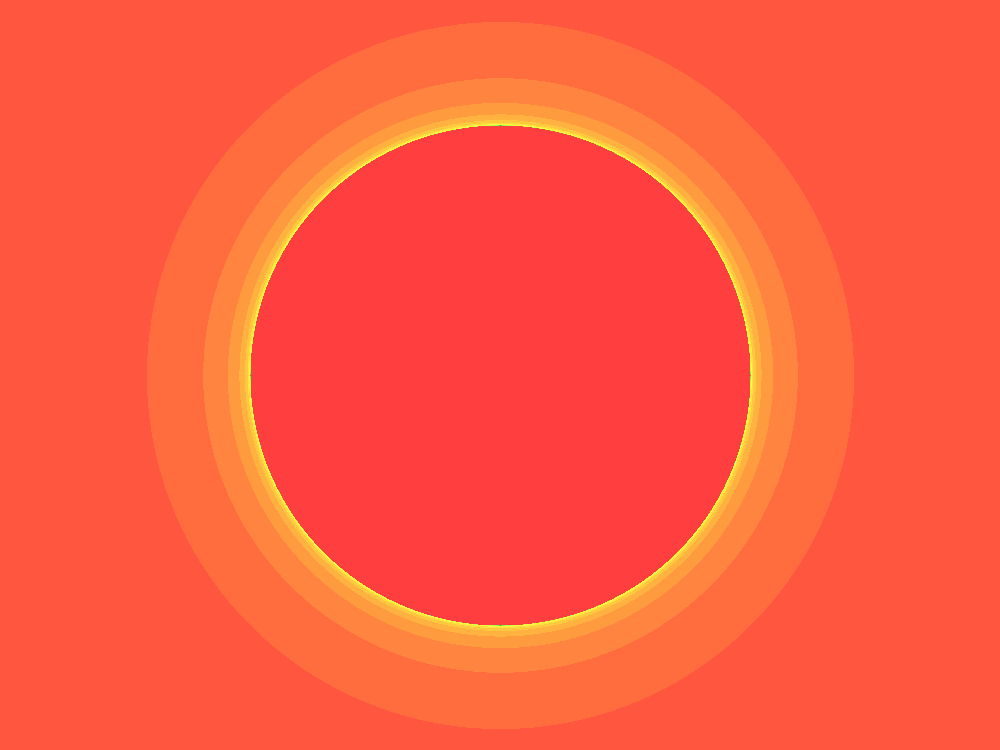
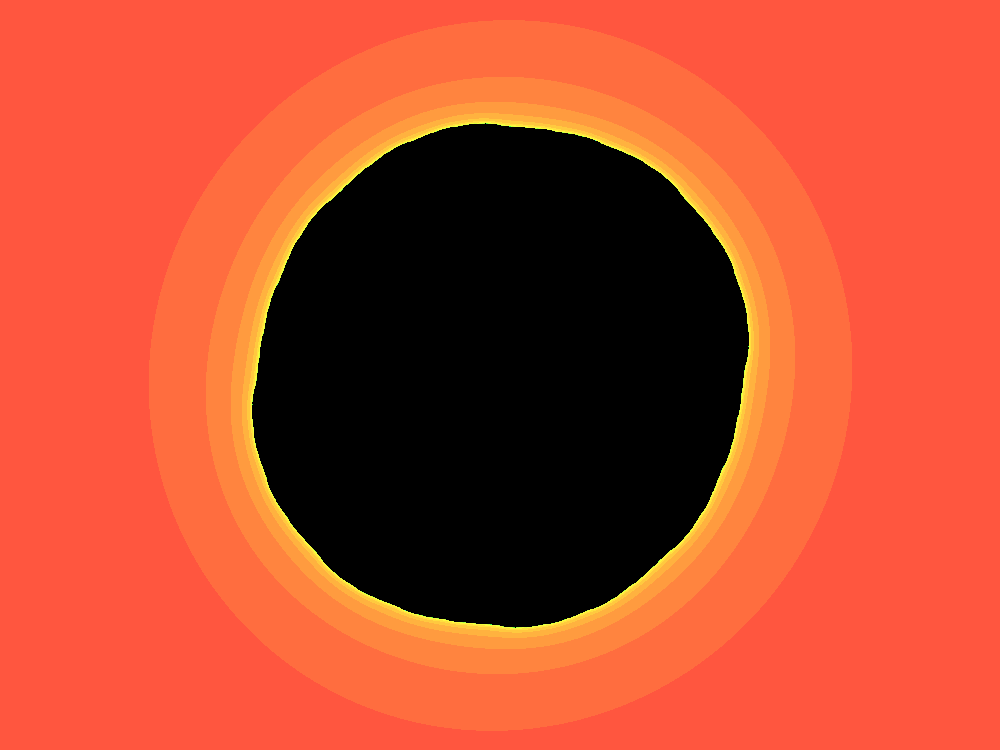
red to black

Changed region(s): [[0.248, 0.1533, 0.775, 0.8587]]

diff --git a/fractals.js b/fractals.js
@@ -54,7 +54,9 @@ var drawJulia = function(iter, mWidth, mHeight, c) {
     for (var w = 0.0; w < 4.0 * mandelb.width; w += 4.0) {
       var a = new ComplexNumber((w / 4.0) / (mandelb.width / 4.0) - 2.0, 1.5 - ((h / 4.0) / (mandelb.height / 3.0)));
       //mandelb.pixels[h*mandelb.width+w]=color(mandelbrot(zero, a, 0, iter), iter*0.75, iter);
-      var color1 = color(map(mandelbrot(a, c, 0, iter), 0, iter, 0, 255), 191, 255);
+      var color1;
+      if (mandelbrot(a, c, 0, iter)==iter) color1=color(0);
+      else color1 = color(map(mandelbrot(a, c, 0, iter), 0, iter, 0, 255), 191, 255);
       mandelb.pixels[h * mandelb.width + w] = red(color1);
       mandelb.pixels[h * mandelb.width + w + 1] = green(color1);
       mandelb.pixels[h * mandelb.width + w + 2] = blue(color1);
@@ -73,7 +75,9 @@ var drawMand = function(iter, mWidth, mHeight) {
     for (var w = 0.0; w < 4.0 * mandelb.width; w += 4.0) {
       var a = new ComplexNumber((w / 4.0) / (mandelb.width / 4.0) - 2.0, 1.5 - ((h / 4.0) / (mandelb.height / 3.0)));
       //mandelb.pixels[h*mandelb.width+w]=color(mandelbrot(zero, a, 0, iter), iter*0.75, iter);
-      var color1 = color(map(mandelbrot(zero, a, 0, iter), 0, iter, 0, 255), 191, 255);
+      var color1;
+      if (mandelbrot(zero, a, 0, iter)===iter) color1=color(0);
+      else color1 = color(map(mandelbrot(zero, a, 0, iter), 0, iter, 0, 255), 191, 255);
       mandelb.pixels[h * mandelb.width + w] = red(color1);
       mandelb.pixels[h * mandelb.width + w + 1] = green(color1);
       mandelb.pixels[h * mandelb.width + w + 2] = blue(color1);
@@ -94,7 +98,9 @@ var drawJuliaZoomed = function(iter, mWidth, mHeight, c, x1, y1, zoom1) {
     for (var w = 0.0; w < 4.0 * mandelb.width; w += 4.0) {
       var a = new ComplexNumber((w / 4.0) / (mandelb.width / xZoom) + (x1 - xZoom / 2), (y1 + yZoom / 2) - ((h / 4.0) / (mandelb.height / yZoom)));
       //mandelb.pixels[h*mandelb.width+w]=color(mandelbrot(zero, a, 0, iter), iter*0.75, iter);
-      var color1 = color(map(mandelbrot(a, c, 0, iter), 0, iter, 0, 255), 191, 255);
+      var color1;
+      if (mandelbrot(a, c, 0, iter)===iter) color1=color(0);
+      else color1 = color(map(mandelbrot(a, c, 0, iter), 0, iter, 0, 255), 191, 255);
       mandelb.pixels[h * mandelb.width + w] = red(color1);
       mandelb.pixels[h * mandelb.width + w + 1] = green(color1);
       mandelb.pixels[h * mandelb.width + w + 2] = blue(color1);
@@ -115,7 +121,9 @@ var drawMandZoomed = function(iter, mWidth, mHeight, x1, y1, zoom1) {
     for (var w = 0.0; w < 4.0 * mandelb.width; w += 4.0) {
       var a = new ComplexNumber((w / 4.0) / (mandelb.width / xZoom) + (x1 - xZoom / 2.0), (y1 + yZoom / 2) - ((h / 4.0) / (mandelb.height / yZoom)));
       //mandelb.pixels[h*mandelb.width+w]=color(mandelbrot(zero, a, 0, iter), iter*0.75, iter);
-      var color1 = color(map(mandelbrot(zero, a, 0, iter), 0, iter, 0, 255), 191, 255);
+      var color1;
+      if (mandelbrot(zero, a, 0, iter)===iter) color1=color(0);
+      else color1 = color(map(mandelbrot(zero, a, 0, iter), 0, iter, 0, 255), 191, 255);
       mandelb.pixels[h * mandelb.width + w] = red(color1);
       mandelb.pixels[h * mandelb.width + w + 1] = green(color1);
       mandelb.pixels[h * mandelb.width + w + 2] = blue(color1);
